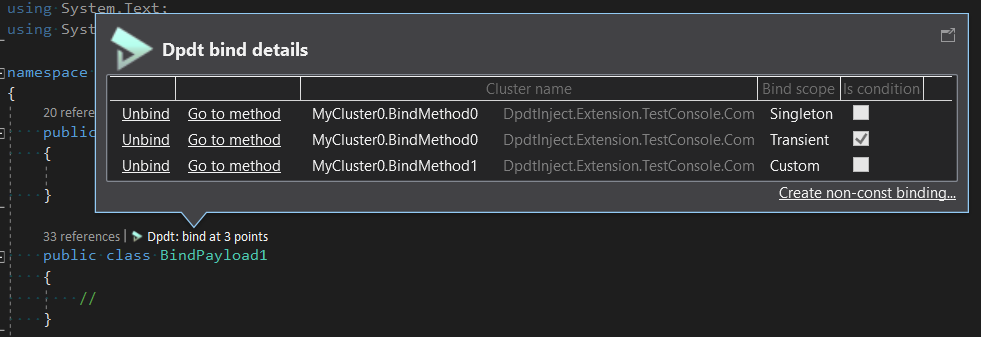
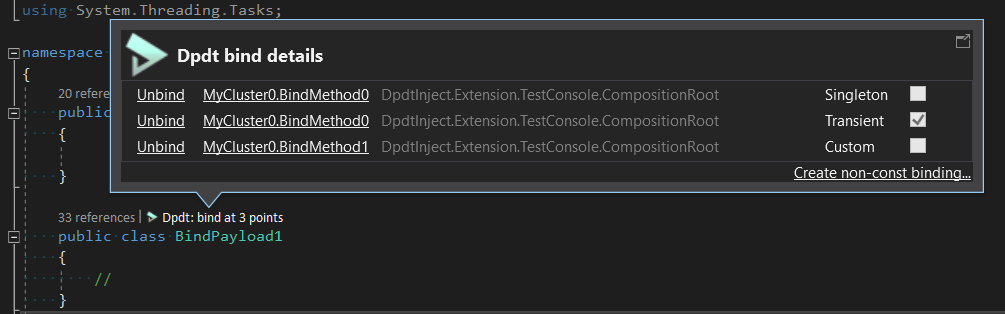
* updated VSIX (visual styles, Unbind disabled for conventional bindings) * updated TestConsole

diff --git a/DpdtInject.Extension/BindDetailsWindow.xaml b/DpdtInject.Extension/BindDetailsWindow.xaml
@@ -7,9 +7,11 @@
              xmlns:vsshell="clr-namespace:Microsoft.VisualStudio.Shell;assembly=Microsoft.VisualStudio.Shell.15.0"
              xmlns:helper="clr-namespace:DpdtInject.Extension.Helper"
              xmlns:main="clr-namespace:DpdtInject.Extension"
+             xmlns:ui="clr-namespace:DpdtInject.Extension.UI"
              mc:Ignorable="d" 
              VerticalAlignment="Stretch"
              d:DesignHeight="450" d:DesignWidth="800"
+             ui:VsTheme.UseVsTheme="True"
              Loaded="BindDetailsWindow_OnLoaded"
              >
 
@@ -41,15 +43,12 @@
             ItemsSource="{Binding Path=DataContext.BindingTargets, RelativeSource={RelativeSource AncestorType=UserControl}}"
             ScrollViewer.VerticalScrollBarVisibility="Auto"
             ScrollViewer.HorizontalScrollBarVisibility="Auto"
-            Background="{DynamicResource {x:Static vsshell:VsBrushes.WindowKey}}"
-            Foreground="{DynamicResource {x:Static vsshell:VsBrushes.WindowTextKey}}"
             >
 
             <ListView.ItemContainerStyle>
                 <Style TargetType="ListViewItem">
                     <Setter Property="HorizontalContentAlignment" Value="Stretch" />
                     <Setter Property="Focusable" Value="false"/>
-                    <Setter Property="Background" Value="Transparent" />
                     <Setter Property="Template">
                         <Setter.Value>
                             <ControlTemplate TargetType="{x:Type ListViewItem}">
@@ -75,8 +74,6 @@
                     <GridView.ColumnHeaderContainerStyle>
                         <Style TargetType="{x:Type GridViewColumnHeader}">
                             <Setter Property="HorizontalContentAlignment" Value="Center" />
-                            <Setter Property="Background" Value="{DynamicResource {x:Static vsshell:VsBrushes.WindowKey}}" />
-                            <Setter Property="Foreground" Value="{DynamicResource {x:Static vsshell:VsBrushes.WindowTextKey}}" />
                             <Setter Property="IsEnabled" Value="False" />
                         </Style>
                     </GridView.ColumnHeaderContainerStyle>
@@ -86,31 +83,15 @@
                                 <TextBlock
                                     Text="Unbind"
                                     TextDecorations="Underline"
-                                    Background="Transparent"
-                                    Foreground="{DynamicResource {x:Static vsshell:VsBrushes.WindowTextKey}}"
                                     Cursor="Hand"
                                     MouseLeftButtonUp="Unbind_OnMouseLeftButtonUp"
+                                    Visibility="{Binding Path=BindingDetail.UnbindVisibility}"
                                     Tag="{Binding}"
                                 />
                             </DataTemplate>
                         </GridViewColumn.CellTemplate>
                     </GridViewColumn>
-                    <GridViewColumn Header="" Width="{Binding RelativeSource={RelativeSource FindAncestor, AncestorType={x:Type ListView} }, Converter={StaticResource GridViewConverter}, ConverterParameter=15}">
-                        <GridViewColumn.CellTemplate>
-                            <DataTemplate >
-                                <TextBlock
-                                    Text="Go to method"
-                                    TextDecorations="Underline"
-                                    Background="Transparent"
-                                    Foreground="{DynamicResource {x:Static vsshell:VsBrushes.WindowTextKey}}"
-                                    Cursor="Hand"
-                                    MouseLeftButtonUp="GoToMethod_OnMouseLeftButtonUp"
-                                    Tag="{Binding}"
-                                />
-                            </DataTemplate>
-                        </GridViewColumn.CellTemplate>
-                    </GridViewColumn>
-                   <GridViewColumn Header="Cluster name" Width="{Binding RelativeSource={RelativeSource FindAncestor, AncestorType={x:Type ListView} }, Converter={StaticResource GridViewConverter}, ConverterParameter=55}">
+                   <GridViewColumn Header="Cluster name" Width="{Binding RelativeSource={RelativeSource FindAncestor, AncestorType={x:Type ListView} }, Converter={StaticResource GridViewConverter}, ConverterParameter=75}">
                         <GridViewColumn.CellTemplate>
                             <DataTemplate >
                                 <Grid
@@ -123,14 +104,15 @@
                                     <TextBlock
                                         Grid.Column="0"
                                         Text="{Binding ClusterDetail.FullName}"
-                                        Background="Transparent"
-                                        Foreground="{DynamicResource {x:Static vsshell:VsBrushes.WindowTextKey}}"
+                                        TextDecorations="Underline"
+                                        Cursor="Hand"
+                                        MouseLeftButtonUp="GoTo_OnMouseLeftButtonUp"
+                                        Tag="{Binding}"
                                     />
                                     <TextBlock
                                         Grid.Column="1"
                                         Text="{Binding ClusterDetail.ClassNamespace}"
-                                        Margin="20,0,0,0"
-                                        Background="Transparent"
+                                        Margin="10,0,0,0"
                                         Foreground="Gray"
                                     />
                                 </Grid>
@@ -139,7 +121,8 @@
                     </GridViewColumn>
 
                     <GridViewColumn Header="Bind scope" Width="{Binding RelativeSource={RelativeSource FindAncestor, AncestorType={x:Type ListView} }, Converter={StaticResource GridViewConverter}, ConverterParameter=10}" DisplayMemberBinding="{Binding BindingDetail.BindScope, FallbackValue=-}" />
-                    <GridViewColumn Header="Is conditional" Width="{Binding RelativeSource={RelativeSource FindAncestor, AncestorType={x:Type ListView} }, Converter={StaticResource GridViewConverter}, ConverterParameter=10}">
+                    
+                    <GridViewColumn Header="Is conditional" Width="{Binding RelativeSource={RelativeSource FindAncestor, AncestorType={x:Type ListView} }, Converter={StaticResource GridViewConverter}, ConverterParameter=5}">
                         <GridViewColumn.CellTemplate>
                             <DataTemplate>
                                 <CheckBox
@@ -159,7 +142,6 @@
             Grid.Row="2"
             Text="Create non-const binding..."
             TextDecorations="Underline"
-            Foreground="{DynamicResource {x:Static vsshell:VsBrushes.WindowTextKey}}"
             HorizontalAlignment="Right"
             Cursor="Hand"
             Margin="0,0,2,0"

diff --git a/DpdtInject.Extension/UI/ViewModel/Details/DpdtBindingDetailViewModel.cs b/DpdtInject.Extension/UI/ViewModel/Details/DpdtBindingDetailViewModel.cs
@@ -1,5 +1,6 @@
 using DpdtInject.Extension.Helper;
 using DpdtInject.Extension.Shared.Dto;
+using System.Windows;
 
 namespace DpdtInject.Extension.UI.ViewModel.Details
 {
@@ -19,6 +20,18 @@ namespace DpdtInject.Extension.UI.ViewModel.Details
             get;
         }
 
+        public bool ConventionalBinding
+        {
+            get;
+        }
+
+        public Visibility UnbindVisibility
+        {
+            get
+            {
+                return ConventionalBinding ? Visibility.Hidden : Visibility.Visible;
+            }
+        }
 
         public DpdtBindingDetailViewModel(
             IDpdtBindingDetail target
@@ -28,6 +41,7 @@ namespace DpdtInject.Extension.UI.ViewModel.Details
 
             BindScope = target.BindScope;
             ConditionalBinding = target.ConditionalBinding;
+            ConventionalBinding = target.ConventionalBinding;
         }
 
     }

diff --git a/DpdtInject.Extension/CodeLens/DpdtCodeLensListener.cs b/DpdtInject.Extension/CodeLens/DpdtCodeLensListener.cs
@@ -83,7 +83,8 @@ namespace DpdtInject.Extension
                                             ),
                                         new DpdtBindingDetail(
                                             bindingContainer.Scope.ToString(),
-                                            bindingContainer.IsConditional
+                                            bindingContainer.IsConditional,
+                                            bindingContainer.IsConventional
                                             )
                                         )
                                     );

diff --git a/DpdtInject.Extension.Shared/Dto/DpdtBindingReferenceSet.cs b/DpdtInject.Extension.Shared/Dto/DpdtBindingReferenceSet.cs
@@ -198,13 +198,21 @@ namespace DpdtInject.Extension.Shared.Dto
             set;
         }
 
+        public bool ConventionalBinding
+        {
+            get;
+            set;
+        }
+
         public DpdtBindingDetail(
             string bindScope,
-            bool conditionalBinding
+            bool conditionalBinding,
+            bool conventionalBinding
             )
         {
             BindScope = bindScope;
             ConditionalBinding = conditionalBinding;
+            ConventionalBinding = conventionalBinding;
         }
     }
 

diff --git a/DpdtInject.Extension.TestConsole/Payload/ConventionalPayload.cs b/DpdtInject.Extension.TestConsole/Payload/ConventionalPayload.cs
@@ -1,0 +1,25 @@
+using System;
+using System.Collections.Generic;
+using System.Linq;
+using System.Text;
+using System.Threading.Tasks;
+
+namespace DpdtInject.Extension.TestConsole.Payload
+{
+    public interface IConventional
+    {
+    }
+
+    public class Conventional0 : IConventional
+    {
+    }
+
+    public class Conventional1 : IConventional
+    {
+    }
+
+    public class Conventional2 : IConventional
+    {
+    }
+
+}

diff --git a/DpdtInject.Extension.TestConsole/CompositionRoot/MyCluster0.Part1.cs b/DpdtInject.Extension.TestConsole/CompositionRoot/MyCluster0.Part1.cs
@@ -18,6 +18,13 @@ namespace DpdtInject.Extension.TestConsole.CompositionRoot
                 .To<BindPayload1>()
                 .WithCustomScope()
                 ;
+
+            ScanInAssembliesWith<IConventional>()
+                .SelectAllWith<IConventional>()
+                .FromAllInterfaces()
+                .ToItself()
+                .WithSingletonScope()
+                ;
         }
     }
 

diff --git a/DpdtInject.Extension/BindDetailsWindow.xaml.cs b/DpdtInject.Extension/BindDetailsWindow.xaml.cs
@@ -224,7 +224,7 @@ namespace DpdtInject.Extension
                 );
         }
 
-        private void GoToMethod_OnMouseLeftButtonUp(
+        private void GoTo_OnMouseLeftButtonUp(
             object sender,
             MouseButtonEventArgs e
             )

diff --git a/DpdtInject.Extension.Shared/Dto/IDpdtBindingDetail.cs b/DpdtInject.Extension.Shared/Dto/IDpdtBindingDetail.cs
@@ -11,5 +11,10 @@
         {
             get;
         }
+
+        bool ConventionalBinding
+        {
+            get;
+        }
     }
 }
